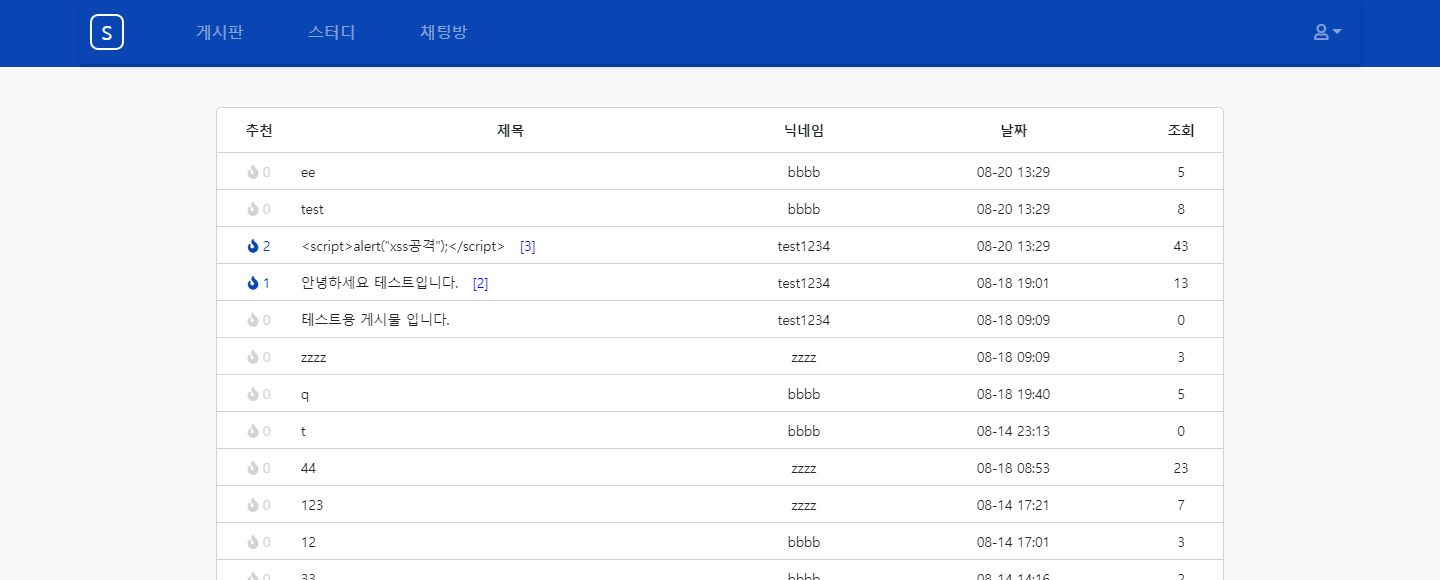
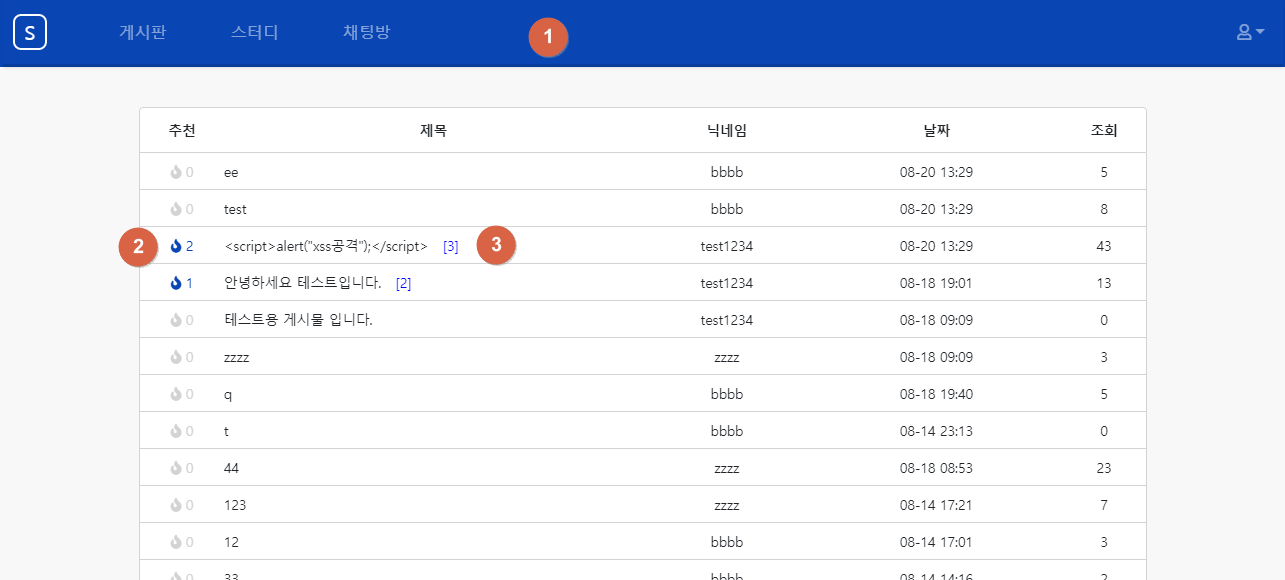
explain project

diff --git a/AWS/tomcat/abc.md b/AWS/tomcat/abc.md
@@ -1,0 +1,171 @@
+code = 500 message = <!doctype html><html lang="en"><head><title>HTTP Status 500 – Internal Server Error</title><style type="text/css">h1 {font-family:Tahoma,Arial,sans-serif;color:white;background-color:#525D76;font-size:22px;} h2 {font-family:Tahoma,Arial,sans-serif;color:white;background-color:#525D76;font-size:16px;} h3 {font-family:Tahoma,Arial,sans-serif;color:white;background-color:#525D76;font-size:14px;} body {font-family:Tahoma,Arial,sans-serif;color:black;background-color:white;} b {font-family:Tahoma,Arial,sans-serif;color:white;background-color:#525D76;} p {font-family:Tahoma,Arial,sans-serif;background:white;color:black;font-size:12px;} a {color:black;} a.name {color:black;} .line {height:1px;background-color:#525D76;border:none;}</style></head><body><h1>HTTP Status 500 – Internal Server Error</h1><hr class="line" /><p><b>Type</b> Exception Report</p><p><b>Message</b> Request processing failed; nested exception is org.springframework.web.multipart.MultipartException: Failed to parse multipart servlet request; nested exception is java.io.IOException: The temporary upload location [&#47;var&#47;lib&#47;tomcat8&#47;work&#47;Catalina&#47;localhost&#47;ROOT&#47;C:\upload\temp] is not valid</p><p><b>Description</b> The server encountered an unexpected condition that prevented it from fulfilling the request.</p><p><b>Exception</b></p><pre>org.springframework.web.util.NestedServletException: Request processing failed; nested exception is org.springframework.web.multipart.MultipartException: Failed to parse multipart servlet request; nested exception is java.io.IOException: The temporary upload location [&#47;var&#47;lib&#47;tomcat8&#47;work&#47;Catalina&#47;localhost&#47;ROOT&#47;C:\upload\temp] is not valid
+	org.springframework.web.servlet.FrameworkServlet.processRequest(FrameworkServlet.java:1013)
+	org.springframework.web.servlet.FrameworkServlet.doPost(FrameworkServlet.java:908)
+	javax.servlet.http.HttpServlet.service(HttpServlet.java:661)
+	org.springframework.web.servlet.FrameworkServlet.service(FrameworkServlet.java:882)
+	javax.servlet.http.HttpServlet.service(HttpServlet.java:742)
+	org.springframework.web.filter.CharacterEncodingFilter.doFilterInternal(CharacterEncodingFilter.java:200)
+	org.springframework.web.filter.OncePerRequestFilter.doFilter(OncePerRequestFilter.java:107)
+	org.apache.tomcat.websocket.server.WsFilter.doFilter(WsFilter.java:52)
+	org.springframework.security.web.FilterChainProxy$VirtualFilterChain.doFilter(FilterChainProxy.java:320)
+	org.springframework.security.web.access.ExceptionTranslationFilter.doFilter(ExceptionTranslationFilter.java:119)
+	org.springframework.security.web.FilterChainProxy$VirtualFilterChain.doFilter(FilterChainProxy.java:334)
+	org.springframework.security.web.session.SessionManagementFilter.doFilter(SessionManagementFilter.java:137)
+	org.springframework.security.web.FilterChainProxy$VirtualFilterChain.doFilter(FilterChainProxy.java:334)
+	org.springframework.security.web.authentication.AnonymousAuthenticationFilter.doFilter(AnonymousAuthenticationFilter.java:111)
+	org.springframework.security.web.FilterChainProxy$VirtualFilterChain.doFilter(FilterChainProxy.java:334)
+	org.springframework.security.web.authentication.rememberme.RememberMeAuthenticationFilter.doFilter(RememberMeAuthenticationFilter.java:158)
+	org.springframework.security.web.FilterChainProxy$VirtualFilterChain.doFilter(FilterChainProxy.java:334)
+	org.springframework.security.web.servletapi.SecurityContextHolderAwareRequestFilter.doFilter(SecurityContextHolderAwareRequestFilter.java:170)
+	org.springframework.security.web.FilterChainProxy$VirtualFilterChain.doFilter(FilterChainProxy.java:334)
+	org.springframework.security.web.savedrequest.RequestCacheAwareFilter.doFilter(RequestCacheAwareFilter.java:63)
+	org.springframework.security.web.FilterChainProxy$VirtualFilterChain.doFilter(FilterChainProxy.java:334)
+	org.springframework.security.web.authentication.AbstractAuthenticationProcessingFilter.doFilter(AbstractAuthenticationProcessingFilter.java:200)
+	org.springframework.security.web.FilterChainProxy$VirtualFilterChain.doFilter(FilterChainProxy.java:334)
+	org.springframework.security.web.authentication.logout.LogoutFilter.doFilter(LogoutFilter.java:116)
+	org.springframework.security.web.FilterChainProxy$VirtualFilterChain.doFilter(FilterChainProxy.java:334)
+	org.springframework.security.web.csrf.CsrfFilter.doFilterInternal(CsrfFilter.java:124)
+	org.springframework.web.filter.OncePerRequestFilter.doFilter(OncePerRequestFilter.java:107)
+	org.springframework.security.web.FilterChainProxy$VirtualFilterChain.doFilter(FilterChainProxy.java:334)
+	org.springframework.web.filter.CharacterEncodingFilter.doFilterInternal(CharacterEncodingFilter.java:200)
+	org.springframework.web.filter.OncePerRequestFilter.doFilter(OncePerRequestFilter.java:107)
+	org.springframework.security.web.FilterChainProxy$VirtualFilterChain.doFilter(FilterChainProxy.java:334)
+	org.springframework.security.web.header.HeaderWriterFilter.doFilterInternal(HeaderWriterFilter.java:74)
+	org.springframework.web.filter.OncePerRequestFilter.doFilter(OncePerRequestFilter.java:107)
+	org.springframework.security.web.FilterChainProxy$VirtualFilterChain.doFilter(FilterChainProxy.java:334)
+	org.springframework.security.web.context.SecurityContextPersistenceFilter.doFilter(SecurityContextPersistenceFilter.java:105)
+	org.springframework.security.web.FilterChainProxy$VirtualFilterChain.doFilter(FilterChainProxy.java:334)
+	org.springframework.security.web.context.request.async.WebAsyncManagerIntegrationFilter.doFilterInternal(WebAsyncManagerIntegrationFilter.java:56)
+	org.springframework.web.filter.OncePerRequestFilter.doFilter(OncePerRequestFilter.java:107)
+	org.springframework.security.web.FilterChainProxy$VirtualFilterChain.doFilter(FilterChainProxy.java:334)
+	org.springframework.security.web.FilterChainProxy.doFilterInternal(FilterChainProxy.java:215)
+	org.springframework.security.web.FilterChainProxy.doFilter(FilterChainProxy.java:178)
+	org.springframework.web.filter.DelegatingFilterProxy.invokeDelegate(DelegatingFilterProxy.java:357)
+	org.springframework.web.filter.DelegatingFilterProxy.doFilter(DelegatingFilterProxy.java:270)
+</pre><p><b>Root Cause</b></p><pre>org.springframework.web.multipart.MultipartException: Failed to parse multipart servlet request; nested exception is java.io.IOException: The temporary upload location [&#47;var&#47;lib&#47;tomcat8&#47;work&#47;Catalina&#47;localhost&#47;ROOT&#47;C:\upload\temp] is not valid
+	org.springframework.web.multipart.support.StandardMultipartHttpServletRequest.handleParseFailure(StandardMultipartHttpServletRequest.java:123)
+	org.springframework.web.multipart.support.StandardMultipartHttpServletRequest.parseRequest(StandardMultipartHttpServletRequest.java:114)
+	org.springframework.web.multipart.support.StandardMultipartHttpServletRequest.&lt;init&gt;(StandardMultipartHttpServletRequest.java:87)
+	org.springframework.web.multipart.support.StandardMultipartHttpServletRequest.&lt;init&gt;(StandardMultipartHttpServletRequest.java:71)
+	org.springframework.web.multipart.support.MultipartResolutionDelegate.resolveMultipartArgument(MultipartResolutionDelegate.java:110)
+	org.springframework.web.method.annotation.RequestParamMethodArgumentResolver.resolveName(RequestParamMethodArgumentResolver.java:164)
+	org.springframework.web.method.annotation.AbstractNamedValueMethodArgumentResolver.resolveArgument(AbstractNamedValueMethodArgumentResolver.java:107)
+	org.springframework.web.method.support.HandlerMethodArgumentResolverComposite.resolveArgument(HandlerMethodArgumentResolverComposite.java:126)
+	org.springframework.web.method.support.InvocableHandlerMethod.getMethodArgumentValues(InvocableHandlerMethod.java:166)
+	org.springframework.web.method.support.InvocableHandlerMethod.invokeForRequest(InvocableHandlerMethod.java:134)
+	org.springframework.web.servlet.mvc.method.annotation.ServletInvocableHandlerMethod.invokeAndHandle(ServletInvocableHandlerMethod.java:102)
+	org.springframework.web.servlet.mvc.method.annotation.RequestMappingHandlerAdapter.invokeHandlerMethod(RequestMappingHandlerAdapter.java:895)
+	org.springframework.web.servlet.mvc.method.annotation.RequestMappingHandlerAdapter.handleInternal(RequestMappingHandlerAdapter.java:800)
+	org.springframework.web.servlet.mvc.method.AbstractHandlerMethodAdapter.handle(AbstractHandlerMethodAdapter.java:87)
+	org.springframework.web.servlet.DispatcherServlet.doDispatch(DispatcherServlet.java:1038)
+	org.springframework.web.servlet.DispatcherServlet.doService(DispatcherServlet.java:942)
+	org.springframework.web.servlet.FrameworkServlet.processRequest(FrameworkServlet.java:1005)
+	org.springframework.web.servlet.FrameworkServlet.doPost(FrameworkServlet.java:908)
+	javax.servlet.http.HttpServlet.service(HttpServlet.java:661)
+	org.springframework.web.servlet.FrameworkServlet.service(FrameworkServlet.java:882)
+	javax.servlet.http.HttpServlet.service(HttpServlet.java:742)
+	org.springframework.web.filter.CharacterEncodingFilter.doFilterInternal(CharacterEncodingFilter.java:200)
+	org.springframework.web.filter.OncePerRequestFilter.doFilter(OncePerRequestFilter.java:107)
+	org.apache.tomcat.websocket.server.WsFilter.doFilter(WsFilter.java:52)
+	org.springframework.security.web.FilterChainProxy$VirtualFilterChain.doFilter(FilterChainProxy.java:320)
+	org.springframework.security.web.access.ExceptionTranslationFilter.doFilter(ExceptionTranslationFilter.java:119)
+	org.springframework.security.web.FilterChainProxy$VirtualFilterChain.doFilter(FilterChainProxy.java:334)
+	org.springframework.security.web.session.SessionManagementFilter.doFilter(SessionManagementFilter.java:137)
+	org.springframework.security.web.FilterChainProxy$VirtualFilterChain.doFilter(FilterChainProxy.java:334)
+	org.springframework.security.web.authentication.AnonymousAuthenticationFilter.doFilter(AnonymousAuthenticationFilter.java:111)
+	org.springframework.security.web.FilterChainProxy$VirtualFilterChain.doFilter(FilterChainProxy.java:334)
+	org.springframework.security.web.authentication.rememberme.RememberMeAuthenticationFilter.doFilter(RememberMeAuthenticationFilter.java:158)
+	org.springframework.security.web.FilterChainProxy$VirtualFilterChain.doFilter(FilterChainProxy.java:334)
+	org.springframework.security.web.servletapi.SecurityContextHolderAwareRequestFilter.doFilter(SecurityContextHolderAwareRequestFilter.java:170)
+	org.springframework.security.web.FilterChainProxy$VirtualFilterChain.doFilter(FilterChainProxy.java:334)
+	org.springframework.security.web.savedrequest.RequestCacheAwareFilter.doFilter(RequestCacheAwareFilter.java:63)
+	org.springframework.security.web.FilterChainProxy$VirtualFilterChain.doFilter(FilterChainProxy.java:334)
+	org.springframework.security.web.authentication.AbstractAuthenticationProcessingFilter.doFilter(AbstractAuthenticationProcessingFilter.java:200)
+	org.springframework.security.web.FilterChainProxy$VirtualFilterChain.doFilter(FilterChainProxy.java:334)
+	org.springframework.security.web.authentication.logout.LogoutFilter.doFilter(LogoutFilter.java:116)
+	org.springframework.security.web.FilterChainProxy$VirtualFilterChain.doFilter(FilterChainProxy.java:334)
+	org.springframework.security.web.csrf.CsrfFilter.doFilterInternal(CsrfFilter.java:124)
+	org.springframework.web.filter.OncePerRequestFilter.doFilter(OncePerRequestFilter.java:107)
+	org.springframework.security.web.FilterChainProxy$VirtualFilterChain.doFilter(FilterChainProxy.java:334)
+	org.springframework.web.filter.CharacterEncodingFilter.doFilterInternal(CharacterEncodingFilter.java:200)
+	org.springframework.web.filter.OncePerRequestFilter.doFilter(OncePerRequestFilter.java:107)
+	org.springframework.security.web.FilterChainProxy$VirtualFilterChain.doFilter(FilterChainProxy.java:334)
+	org.springframework.security.web.header.HeaderWriterFilter.doFilterInternal(HeaderWriterFilter.java:74)
+	org.springframework.web.filter.OncePerRequestFilter.doFilter(OncePerRequestFilter.java:107)
+	org.springframework.security.web.FilterChainProxy$VirtualFilterChain.doFilter(FilterChainProxy.java:334)
+	org.springframework.security.web.context.SecurityContextPersistenceFilter.doFilter(SecurityContextPersistenceFilter.java:105)
+	org.springframework.security.web.FilterChainProxy$VirtualFilterChain.doFilter(FilterChainProxy.java:334)
+	org.springframework.security.web.context.request.async.WebAsyncManagerIntegrationFilter.doFilterInternal(WebAsyncManagerIntegrationFilter.java:56)
+	org.springframework.web.filter.OncePerRequestFilter.doFilter(OncePerRequestFilter.java:107)
+	org.springframework.security.web.FilterChainProxy$VirtualFilterChain.doFilter(FilterChainProxy.java:334)
+	org.springframework.security.web.FilterChainProxy.doFilterInternal(FilterChainProxy.java:215)
+	org.springframework.security.web.FilterChainProxy.doFilter(FilterChainProxy.java:178)
+	org.springframework.web.filter.DelegatingFilterProxy.invokeDelegate(DelegatingFilterProxy.java:357)
+	org.springframework.web.filter.DelegatingFilterProxy.doFilter(DelegatingFilterProxy.java:270)
+</pre><p><b>Root Cause</b></p><pre>java.io.IOException: The temporary upload location [&#47;var&#47;lib&#47;tomcat8&#47;work&#47;Catalina&#47;localhost&#47;ROOT&#47;C:\upload\temp] is not valid
+	org.apache.catalina.connector.Request.parseParts(Request.java:2882)
+	org.apache.catalina.connector.Request.getParts(Request.java:2806)
+	org.apache.catalina.connector.RequestFacade.getParts(RequestFacade.java:1084)
+	javax.servlet.http.HttpServletRequestWrapper.getParts(HttpServletRequestWrapper.java:347)
+	javax.servlet.http.HttpServletRequestWrapper.getParts(HttpServletRequestWrapper.java:347)
+	javax.servlet.http.HttpServletRequestWrapper.getParts(HttpServletRequestWrapper.java:347)
+	javax.servlet.http.HttpServletRequestWrapper.getParts(HttpServletRequestWrapper.java:347)
+	org.springframework.web.multipart.support.StandardMultipartHttpServletRequest.parseRequest(StandardMultipartHttpServletRequest.java:94)
+	org.springframework.web.multipart.support.StandardMultipartHttpServletRequest.&lt;init&gt;(StandardMultipartHttpServletRequest.java:87)
+	org.springframework.web.multipart.support.StandardMultipartHttpServletRequest.&lt;init&gt;(StandardMultipartHttpServletRequest.java:71)
+	org.springframework.web.multipart.support.MultipartResolutionDelegate.resolveMultipartArgument(MultipartResolutionDelegate.java:110)
+	org.springframework.web.method.annotation.RequestParamMethodArgumentResolver.resolveName(RequestParamMethodArgumentResolver.java:164)
+	org.springframework.web.method.annotation.AbstractNamedValueMethodArgumentResolver.resolveArgument(AbstractNamedValueMethodArgumentResolver.java:107)
+	org.springframework.web.method.support.HandlerMethodArgumentResolverComposite.resolveArgument(HandlerMethodArgumentResolverComposite.java:126)
+	org.springframework.web.method.support.InvocableHandlerMethod.getMethodArgumentValues(InvocableHandlerMethod.java:166)
+	org.springframework.web.method.support.InvocableHandlerMethod.invokeForRequest(InvocableHandlerMethod.java:134)
+	org.springframework.web.servlet.mvc.method.annotation.ServletInvocableHandlerMethod.invokeAndHandle(ServletInvocableHandlerMethod.java:102)
+	org.springframework.web.servlet.mvc.method.annotation.RequestMappingHandlerAdapter.invokeHandlerMethod(RequestMappingHandlerAdapter.java:895)
+	org.springframework.web.servlet.mvc.method.annotation.RequestMappingHandlerAdapter.handleInternal(RequestMappingHandlerAdapter.java:800)
+	org.springframework.web.servlet.mvc.method.AbstractHandlerMethodAdapter.handle(AbstractHandlerMethodAdapter.java:87)
+	org.springframework.web.servlet.DispatcherServlet.doDispatch(DispatcherServlet.java:1038)
+	org.springframework.web.servlet.DispatcherServlet.doService(DispatcherServlet.java:942)
+	org.springframework.web.servlet.FrameworkServlet.processRequest(FrameworkServlet.java:1005)
+	org.springframework.web.servlet.FrameworkServlet.doPost(FrameworkServlet.java:908)
+	javax.servlet.http.HttpServlet.service(HttpServlet.java:661)
+	org.springframework.web.servlet.FrameworkServlet.service(FrameworkServlet.java:882)
+	javax.servlet.http.HttpServlet.service(HttpServlet.java:742)
+	org.springframework.web.filter.CharacterEncodingFilter.doFilterInternal(CharacterEncodingFilter.java:200)
+	org.springframework.web.filter.OncePerRequestFilter.doFilter(OncePerRequestFilter.java:107)
+	org.apache.tomcat.websocket.server.WsFilter.doFilter(WsFilter.java:52)
+	org.springframework.security.web.FilterChainProxy$VirtualFilterChain.doFilter(FilterChainProxy.java:320)
+	org.springframework.security.web.access.ExceptionTranslationFilter.doFilter(ExceptionTranslationFilter.java:119)
+	org.springframework.security.web.FilterChainProxy$VirtualFilterChain.doFilter(FilterChainProxy.java:334)
+	org.springframework.security.web.session.SessionManagementFilter.doFilter(SessionManagementFilter.java:137)
+	org.springframework.security.web.FilterChainProxy$VirtualFilterChain.doFilter(FilterChainProxy.java:334)
+	org.springframework.security.web.authentication.AnonymousAuthenticationFilter.doFilter(AnonymousAuthenticationFilter.java:111)
+	org.springframework.security.web.FilterChainProxy$VirtualFilterChain.doFilter(FilterChainProxy.java:334)
+	org.springframework.security.web.authentication.rememberme.RememberMeAuthenticationFilter.doFilter(RememberMeAuthenticationFilter.java:158)
+	org.springframework.security.web.FilterChainProxy$VirtualFilterChain.doFilter(FilterChainProxy.java:334)
+	org.springframework.security.web.servletapi.SecurityContextHolderAwareRequestFilter.doFilter(SecurityContextHolderAwareRequestFilter.java:170)
+	org.springframework.security.web.FilterChainProxy$VirtualFilterChain.doFilter(FilterChainProxy.java:334)
+	org.springframework.security.web.savedrequest.RequestCacheAwareFilter.doFilter(RequestCacheAwareFilter.java:63)
+	org.springframework.security.web.FilterChainProxy$VirtualFilterChain.doFilter(FilterChainProxy.java:334)
+	org.springframework.security.web.authentication.AbstractAuthenticationProcessingFilter.doFilter(AbstractAuthenticationProcessingFilter.java:200)
+	org.springframework.security.web.FilterChainProxy$VirtualFilterChain.doFilter(FilterChainProxy.java:334)
+	org.springframework.security.web.authentication.logout.LogoutFilter.doFilter(LogoutFilter.java:116)
+	org.springframework.security.web.FilterChainProxy$VirtualFilterChain.doFilter(FilterChainProxy.java:334)
+	org.springframework.security.web.csrf.CsrfFilter.doFilterInternal(CsrfFilter.java:124)
+	org.springframework.web.filter.OncePerRequestFilter.doFilter(OncePerRequestFilter.java:107)
+	org.springframework.security.web.FilterChainProxy$VirtualFilterChain.doFilter(FilterChainProxy.java:334)
+	org.springframework.web.filter.CharacterEncodingFilter.doFilterInternal(CharacterEncodingFilter.java:200)
+	org.springframework.web.filter.OncePerRequestFilter.doFilter(OncePerRequestFilter.java:107)
+	org.springframework.security.web.FilterChainProxy$VirtualFilterChain.doFilter(FilterChainProxy.java:334)
+	org.springframework.security.web.header.HeaderWriterFilter.doFilterInternal(HeaderWriterFilter.java:74)
+	org.springframework.web.filter.OncePerRequestFilter.doFilter(OncePerRequestFilter.java:107)
+	org.springframework.security.web.FilterChainProxy$VirtualFilterChain.doFilter(FilterChainProxy.java:334)
+	org.springframework.security.web.context.SecurityContextPersistenceFilter.doFilter(SecurityContextPersistenceFilter.java:105)
+	org.springframework.security.web.FilterChainProxy$VirtualFilterChain.doFilter(FilterChainProxy.java:334)
+	org.springframework.security.web.context.request.async.WebAsyncManagerIntegrationFilter.doFilterInternal(WebAsyncManagerIntegrationFilter.java:56)
+	org.springframework.web.filter.OncePerRequestFilter.doFilter(OncePerRequestFilter.java:107)
+	org.springframework.security.web.FilterChainProxy$VirtualFilterChain.doFilter(FilterChainProxy.java:334)
+	org.springframework.security.web.FilterChainProxy.doFilterInternal(FilterChainProxy.java:215)
+	org.springframework.security.web.FilterChainProxy.doFilter(FilterChainProxy.java:178)
+	org.springframework.web.filter.DelegatingFilterProxy.invokeDelegate(DelegatingFilterProxy.java:357)
+	org.springframework.web.filter.DelegatingFilterProxy.doFilter(DelegatingFilterProxy.java:270)
+</pre><p><b>Note</b> The full stack trace of the root cause is available in the server logs.</p><hr class="line" /><h3>Apache Tomcat/8.5.39 (Ubuntu)</h3></body></html> error = 

diff --git a/bbb.md b/bbb.md
@@ -1,0 +1,160 @@
+# Sootudy
+
+Sootudy는 스터디 웹 사이트 입니다. 빼어날 수(秀)에 Study를 합쳐 '뛰어난 개발을 하는 모임'이라는 뜻 입니다.
+
+
+테스트용 아이디 : test 비밀번호 : test0000
+
+# 개발 환경
+
+## BACK-END
+- JAVA
+- JSP
+
+## FRAMEWORK
+- SPRING
+
+## FRONT-END
+- HTML
+- JAVASCRIPT
+- CSS
+- JQUERY
+- AJAX
+- BootStrap
+
+## DBMS
+- MariaDB
+
+## WEB SERVER
+- APACHE TOMCAT 8.5
+
+## VERSION CONTROL
+- GIT
+- GITHUB
+
+## BUILD & DEPLOY
+- JENKINS
+
+## NOTIFY
+- SLACK
+
+## AWS
+- EC2
+- RDS(MariaDB)
+- ~~S3~~ (S3 연결시 접속이 끊기는 현상이 발견되어 임시 중단하고, 게시물의 첨부 파일은 EC2에 올리도록 수정했습니다.)
+- Router53
+- AWS CERTIFICATE MANAGER(SSL 생성용입니다.)
+- ELASTIC LOAD BALANCER (http로 접속시 https로 redirect를 해주기 위해서 만들었습니다.)
+
+# 프로젝트 구성
+![structure](https://github.com/SooJae/Study/blob/master/portfolio/sootudy/img/structure.png)
+
+
+# 서비스
+## 전체 디자인
+Bootstrap을 이용한 반응형 웹디자인으로 만들었습니다. 디자인을 커스텀하고 싶은 부분은 직접 css를 이용하여 디자인을 했습니다. 
+
+## 로그인 및 회원가입
+
+### 유효성 검사 
+keyup이벤트와 Ajax 통신을 이용하여 실시간으로 중복여부를 확인했습니다. 또한 '정규식'과 'replace 함수'를 이용하여 특수문자 입력 시 바로 삭제가 가능하도록 했습니다.
+
+## 게시판
+게시판을 어떻게 하면 평범하지 않게 만들 수 있을지 많은 생각을 했습니다.    
+우선 디자인에 더욱 신경을 썼습니다. 컴퓨터와 폰으로 접속할 시 각각 보이는 화면의 수정 작업을 반복했고, 결국 만족한 결과를 만들었습니다.    
+### 추천 기능
+하나의 게시물에 하나의 아이디만 추천(DB복합키 이용) 할 수 있고, 재 추천을 할 경우 취소되도록 만들었습니다.   
+게시판 리스트의 왼쪽 하단 '인기 글' 버튼을 클릭하면 추천을 받은 게시물(현재 추천 1이상)만 나오도록 필터 기능을 넣었습니다.
+### 댓글
+RestFul 방식으로 만들었습니다. 
+### 검색, 첨부파일 기능
+검색과, 글 작성시 첨부파일이 업로드가 되도록 만들었습니다.(S3의 연결 오류로 인해 EC2 서버에 올리는 형식으로 바꾼 상태입니다.)
+
+
+## 스터디
+### 리스트
+왼쪽 하단의 '내 모임' 버튼을 클릭하면 내가 참석한 모임을 확인 할 수 있습니다.   
+진행률은 (Todo 성공 갯수/Todo 전체 갯수) * 100 을 하여 퍼센티지로 표시했습니다.
+
+### 그래프(미 구현)
+'Github Api를 이용하여 Commit갯수를 받아올 수 있지않을까' 라고 생각하여 그래프로 표현하고 싶었지만, 하지 못하고 일단 더미값을 넣어 둔 상태입니다.
+
+### Todo리스트
+게시판의 댓글과 마찬가지로 RestFul하게 만들었습니다.    
+Todo리스트 체크시 디자인에 신경 썼습니다.   
+Todo리스트 등록시 '1시간 이내', '하루 이내', '하루 이상', '시간 초과'시 각각 뱃지 색이 변하도록 만들고, 나타나는 형식도 달라지게 했습니다.
+
+### 채팅방
+스터디에 참여한 사람들끼리 채팅을 하는 기능입니다.  
+Stomp와 SockJS 라이브러리를 이용하여 채팅서버를 만들었습니다.  
+연결 성공시 데이터베이스에서 이전 채팅 기록을 불러오게 했습니다.   
+스마트폰의 메신져과 비슷한 느낌을 주기위해 디자인에 신경을 썼습니다.   
+
+## 익명 채팅방
+스터디의 채팅방과 같이 Stomp를 이용한 것은 똑같지만, 아이디가 필요없는 익명 채팅방을 만들었습니다.   
+SessionStorage를 이용하여 아이디를 저장하여 채팅을 참여하고, 채팅방을 나가거나 세션이동시 disconnect와 동시에 SessionStorage안의 아이디 값도 지우도록 만들었습니다.   
+물론 이전 대화 목록은 불러오지 않도록 만들었습니다.
+
+
+# 기타 개발 이야기
+
+## keyup 이벤트의 잦은 Ajax 통신으로 인한 DB의 과부화와 비용 증가
+ 회원가입 폼에서 keyup 이벤트 때문에 한글자씩 입력마다 DB를 호출함에 따라 DB과부화와 비용이 걱정되었습니다.   
+웹사이트를 찾아다니던 중, 한 블로그에서 '디바운싱 개념'을 이용하면 Ajax통신을 효과적으로 할 수 있다고 알려주었습니다.   
+'디바운싱 개념'을 이용하여 이전 keyup이벤트 이후 70ms내에 keyup 이벤트 발생시 Ajax 통신이 되지 않도록 하여 비용적으로 좀 더 최적화를 했습니다.
+
+## xss 방지 필터
+'네이버'의 'lucy-xss-servlet-filter'를 사용해보려고 했으나, Ajax 통신을 할때는 필터의 적용이 안되는 문제가 발생했습니다.   
+ 스프링의 CharacterEscapes 클래스를 이용하여 직접 xss-filter를 만들고, Ajax 통신과 웹 소켓 통신에 각각 적용했습니다.   
+하지만 이미지 파일을 Ajax통신할 시에 image/png가 text/html로 변환되어 정상적으로 가져오지 못하는 상황이 발생했습니다.   
+StackOverflow에서 BufferedImageHttpMessageConverter클래스를 이용하라는 글도 있었지만, 이 또한 해결을 해주지 못했습니다.   
+결국 스프링 공식 레퍼런스에서 HttpMessageConverter와 관련된 클래스를 찾아보았습니다.
+찾는 도중 ByteArrayHttpMessageConverter라는 클래스가 있어서 이미지가 Byte로 변환돼서 전송이 되니, 이 클래스를 이용하면 가능하지 않을까 생각하여 필터에 추가해 주었더니 전송에 성공했습니다.
+
+## S3 구현
+S3를 구현하면서 힘들었던 것은 스프링이 properties 값을 제대로 갖고오지 못한 것이었습니다.   
+직접 하드 코딩으로 private String accessKey ="...", private String secretKey ="..." 로 하면 정상적으로 작동이 되지만, 
+보안에 문제가 되기 때문에 properties 파일을 이용할 수 밖에 없었습니다.
+```java 
+ ...
+@Value("${spring.aws.credentials.accessKey}")
+   private String accessKey;
+      
+@Value("${spring.aws.credentials.secretKey}")
+   private String secretKey;
+   
+// error! : accessKey 값과 secertKey 값을 갖고 오지 못함
+public AmazonS3() {
+    AWSCredentials credentials = new BasicAWSCredentials(this.accessKey, this.secretKey);
+    this.s3Client = AmazonS3ClientBuilder.standard()
+            .withRegion(Regions.AP_NORTHEAST_2)
+            .withCredentials(new AWSStaticCredentialsProvider(credentials))
+            .build();
+      }
+```
+
+하지만 위와 같이 코드를 썼을 때, 생성자에서 accessKey와 secertKey를 갖고오지 못하는 상황이 발생 했었습니다.
+이런 저런 방법을 시도한 끝에, 객체가 생성된 후에 키 값을 갖고 오게 하면 될 것 같다고 생각했습니다.
+@PostConstruct를 사용하여 객체생성 후에 실행되는 메소드에 키값 들을 넣으니 정상적으로 작동 되었습니다. 
+
+```java
+    ...
+@Value("${spring.aws.credentials.accessKey}")
+   private String accessKey;
+      
+@Value("${spring.aws.credentials.secretKey}")
+   private String secretKey;
+
+//정상 작동!
+@PostConstruct
+private void initializeAmazon() {
+    AWSCredentials credentials = new BasicAWSCredentials(this.accessKey, this.secretKey);
+    this.s3Client = AmazonS3ClientBuilder.standard()
+            .withRegion(Regions.AP_NORTHEAST_2)
+            .withCredentials(new AWSStaticCredentialsProvider(credentials))
+            .build();
+    }
+```
+
+위와 같이 해결하지 못할 것 같은 문제들이 닥쳤을 때 적지 않은 스트레스를 받지만, 노력 끝에 해결하면 그 보람과 성취감은 이루어 말할 수 없다고 느꼈습니다.   
+개발하며 성취감을 자주 느끼는 개발자가 되고 싶습니다.

diff --git a/portfolio/sootudy/readme.md b/portfolio/sootudy/readme.md
@@ -1,7 +1,42 @@
 ![board](./img/board1.png)
+### 1. 네비게이션 바 입니다.
+### 2. 몇개의 추천을 받은 게시물인지 나타냅니다. 일정 수 이상 추천을 받은 게시물은 파란색으로 표시됩니다.
+### 3. 댓글이 몇개가 달렸는지 확인할 수 있습니다.
+![board1_m](./img/board1_m.png)
+### 1. 모바일 버젼입니다. 컴퓨터 버젼과 비교해보면 '닉네임', '날짜', '조회' 부분에 아이콘이 들어간 것을 확인 할 수 있습니다.
+![board2_m](./img/board2_m.png)
+### 네비게이션 바를 열었을 때 입니다.
+![board3](./img/board3.png)
+### 1. 인기글 버튼을 누르면 일정 수 이상의 추천 받은 게시물만 볼 수 있습니다.
+### 2. 검색 기능입니다.
+![board4](./img/board4.png)
+### 1. Ajax 통신을 이용하여 추천을 할 수 있습니다. 이미 추천 했던 게시물을 다시 추천하면 기존의 추천이 취소됩니다.
+### 2. 업로드 기능이 있어 게시물을 업로드 할 수 있고, 볼 수 있습니다.
+### 3. 댓글 기능이 있으며, Restful 방식으로 ajax 통신합니다.
+![join](./img/join.png)
+### 회원가입 폼은 keyup이벤트를 이용하여 타이핑이 실시간으로 폼에 반영되게 했습니다.
+### 1. 특수문자를 사용시 정규식과 replace 함수를 이용해 실시간으로 제거해줍니다.
+### 2. ajax통신을 이용하여 DB에 중복되는 값이 있는지 확인하고 있으면 실패를 리턴합니다.
+### 3. 유효성 검사에 통과가 되면 초록색으로 표시됩니다.
+### 4. 비밀번호 확인 값이 비밀번호 값과 달라 실패한 경우입니다.
+![login](./img/login.png)
+### 1. 사이트 전체의 alert를 저의 취향에 맞게 커스텀 했습니다. 실패 alert입니다.
+![study](./img/study.png)
+### 1. 제가 만든 성공 alert 입니다.
+### 2. 가입한 인원 / 최대인원을 확인 할 수 있습니다.
+### 3. 진행률을 확인 할 수 있습니다.
+![study2](./img/study2.png)
+### 1. Todo 리스트입니다.  '1시간 이내', '하루 이내', '하루 이상', '시간 초과'시 각각 뱃지 색이 변하도록 만들고, 스크린샷에 보이는 대로 각각 '24분', '8시간',  '19/08/23', '기한 만료' 등 분, 시간, 날짜, 기한만료로 구분하여 나타냅니다.
+### 2. 원래의 계획은 Github Api를 이용하여 Commit갯수를 받아와서 그래프로 표현하고 싶었으나 못하고 일단 더미값을 넣어 둔 상태입니다. 그래프는 Chart.js를 사용했습니다.
+![study3](./img/study3.png)
+### Todo 등록 폼입니다. 날짜와 시간등을 선택하여 등록할 수 있습니다.
+![study_chat](./img/study_chat.png)
+### 1. 실천한 Todo 항목에 대해서는 체크할 수 있게 했고, 디자인도 변경됩니다.
+### 2. 스터디 채팅 화면입니다. 화면에서 보이는 것 같이 접속을 하게되면 이전 대화 목록을 불러옵니다.
+### 3. 채팅방에 접속하거나 퇴장할 시 통지를 해줍니다.
+### 4. 상대방의 대화창 입니다.
+### 5. 사용자의 대화창 입니다. 
+![anonymous_chat](./img/anonymous_chat.png)
 
-
-
-
-
-![board](./img/Board_com.png)
+### 1. 스터디의 채팅방과 형식은 같지만, 아이디가 필요없는 익명 채팅방을 만들었습니다. SessionStorage를 이용하여 프롬프트에 입력한 아이디를 저장하여 채팅을 참여하고, 채팅방을 나가거나 세션이동시 disconnect와 동시에 SessionStorage안의 아이디 값도 지우도록 만들었습니다. 스터디 채팅방과 달리 이전 대화 목록은 불러오지 않도록 만들었습니다.
+### 2. 익명 채팅방 리스트입니다.
